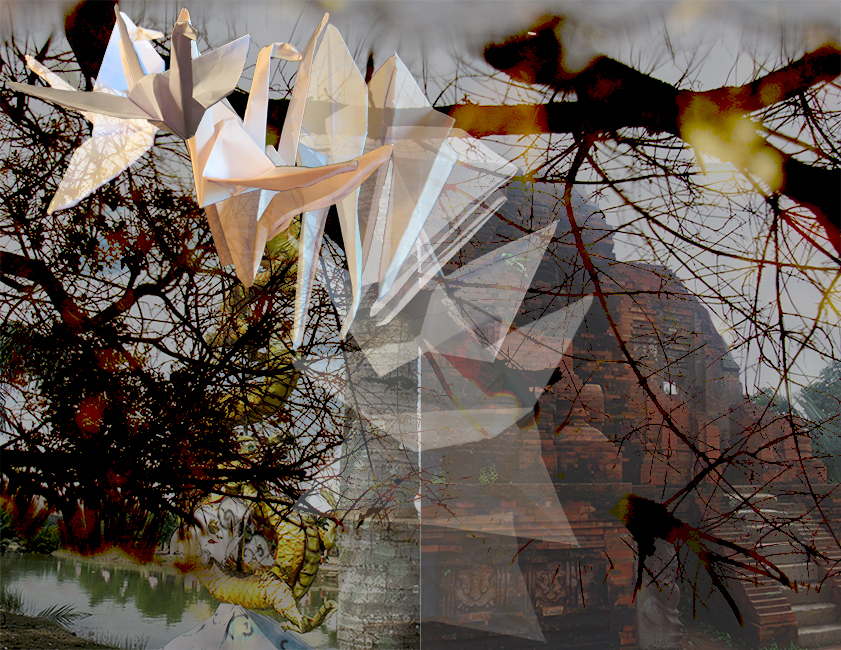
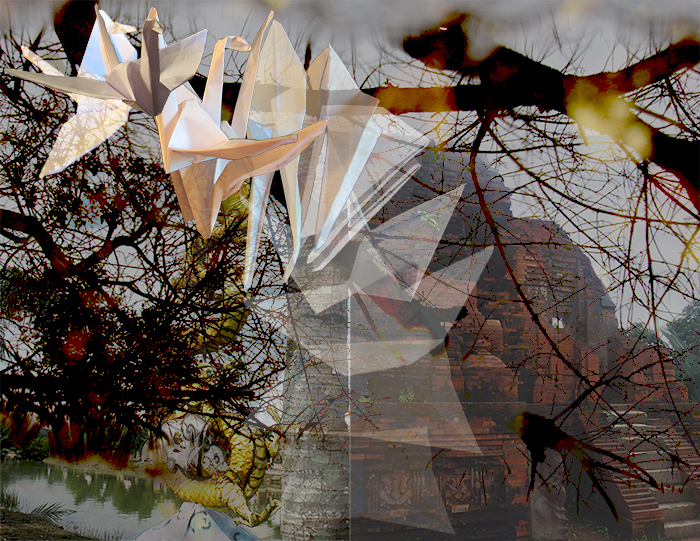
image size changes

diff --git a/index.html b/index.html
@@ -6,19 +6,19 @@
 <body>
 <h1>Student Art Presentations and Process</h1>
 <div>
-<center><img src="ruin.jpg" alt="painted word sculpture" class="650px; 488px"></center></img>
+<center><img src="ruin.jpg" alt="painted word sculpture" class="550px; 413px"></center></img>
 </div>
 <div>
 <h1><i>Ruin</i></h1>
 </div>
 <h2>ART 13: 3D Concepts</h2>
 <div>
-<center><img src="photoshop.jpg" alt="girl in front of mirror with camara" class="412px; 550px"></center></img>
+<center><img src="photoshop.jpg" alt="girl in front of mirror with camara" class="413px; 550px"></center></img>
 </div>
 <div>
 <h1><i>Reflections</i></h1>
 <h2>ART 74: Intro to Digital Media</h2>
-<center><img src="cranes.jpg" alt="image of paper cranes" class="841px; 650px"></center></img>
+<center><img src="cranes.jpg" alt="image of paper cranes" class="700px; 541px"></center></img>
 </div>
 <div>
 <h1><i>Memories</i></h1>
